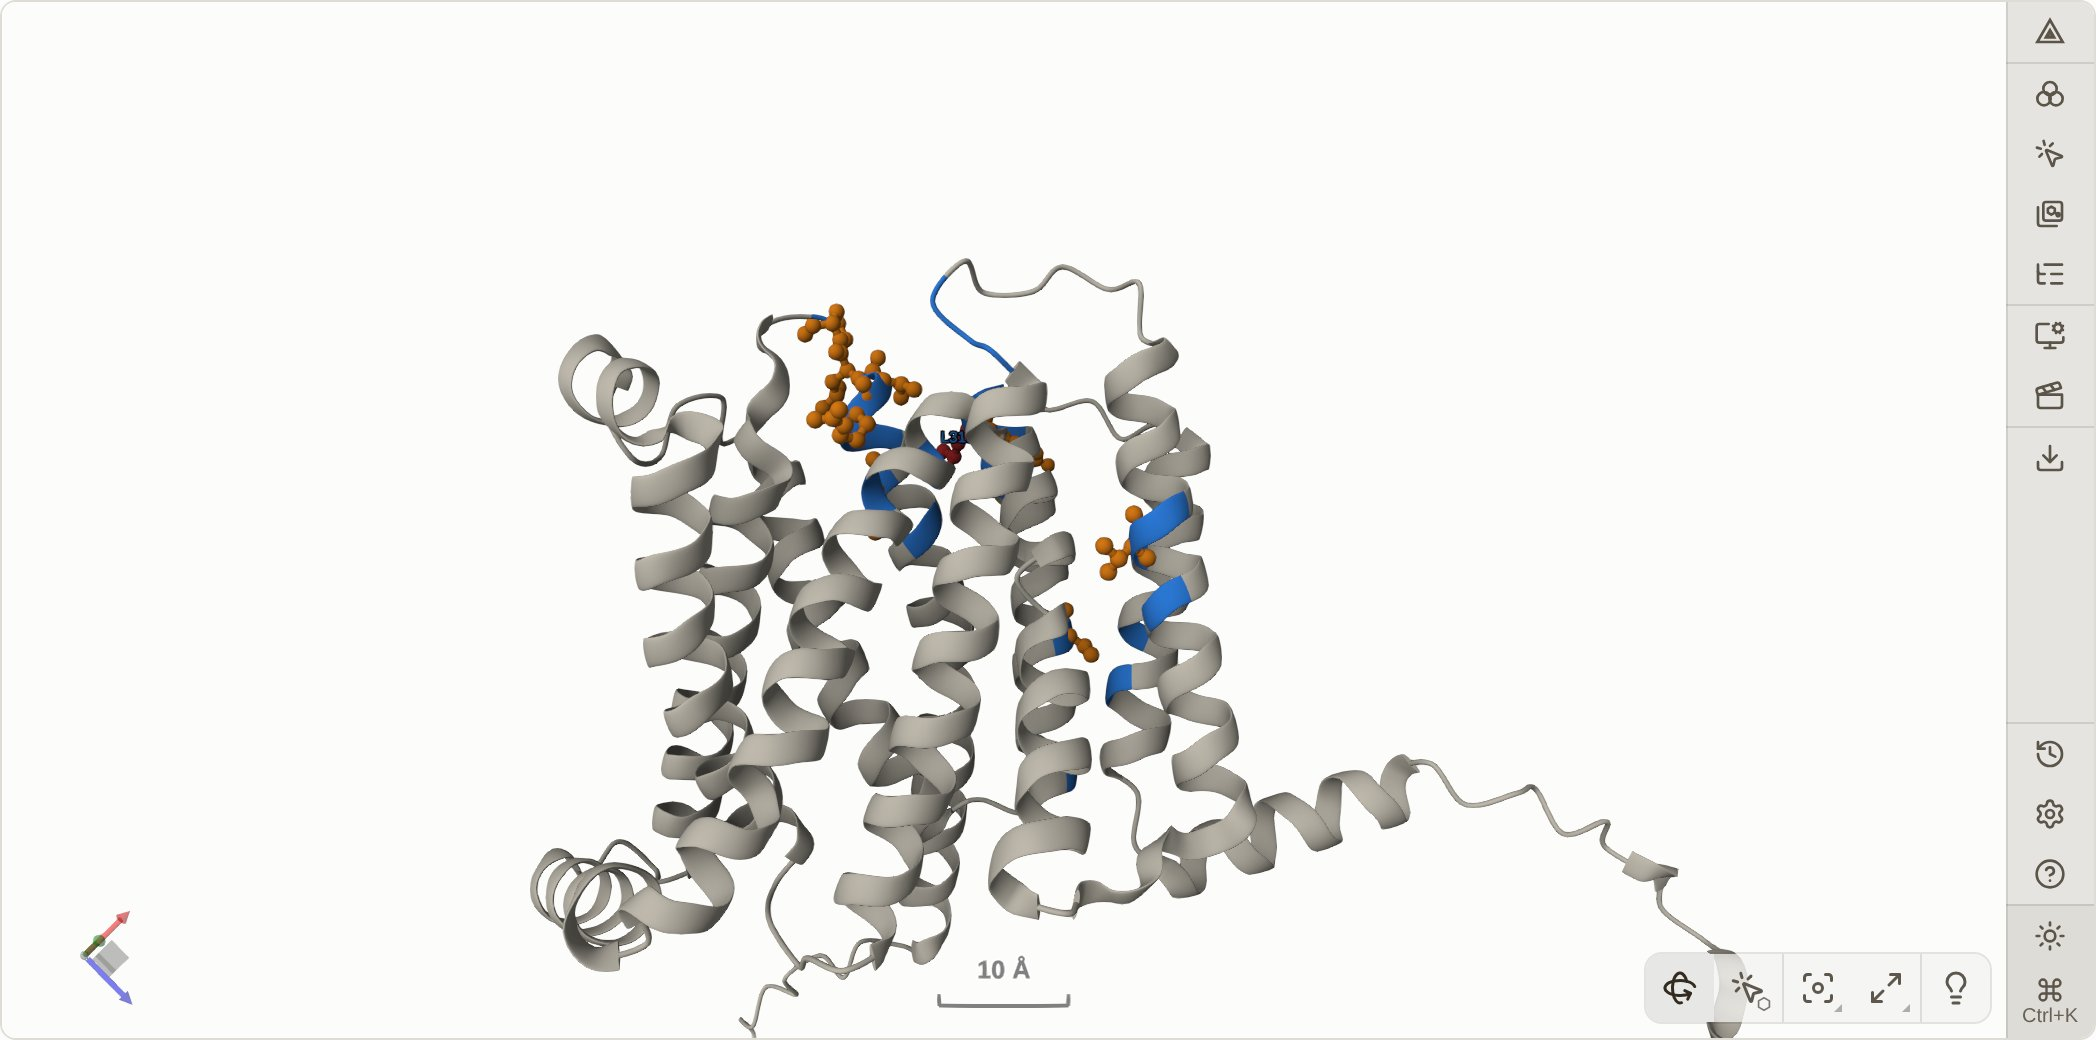
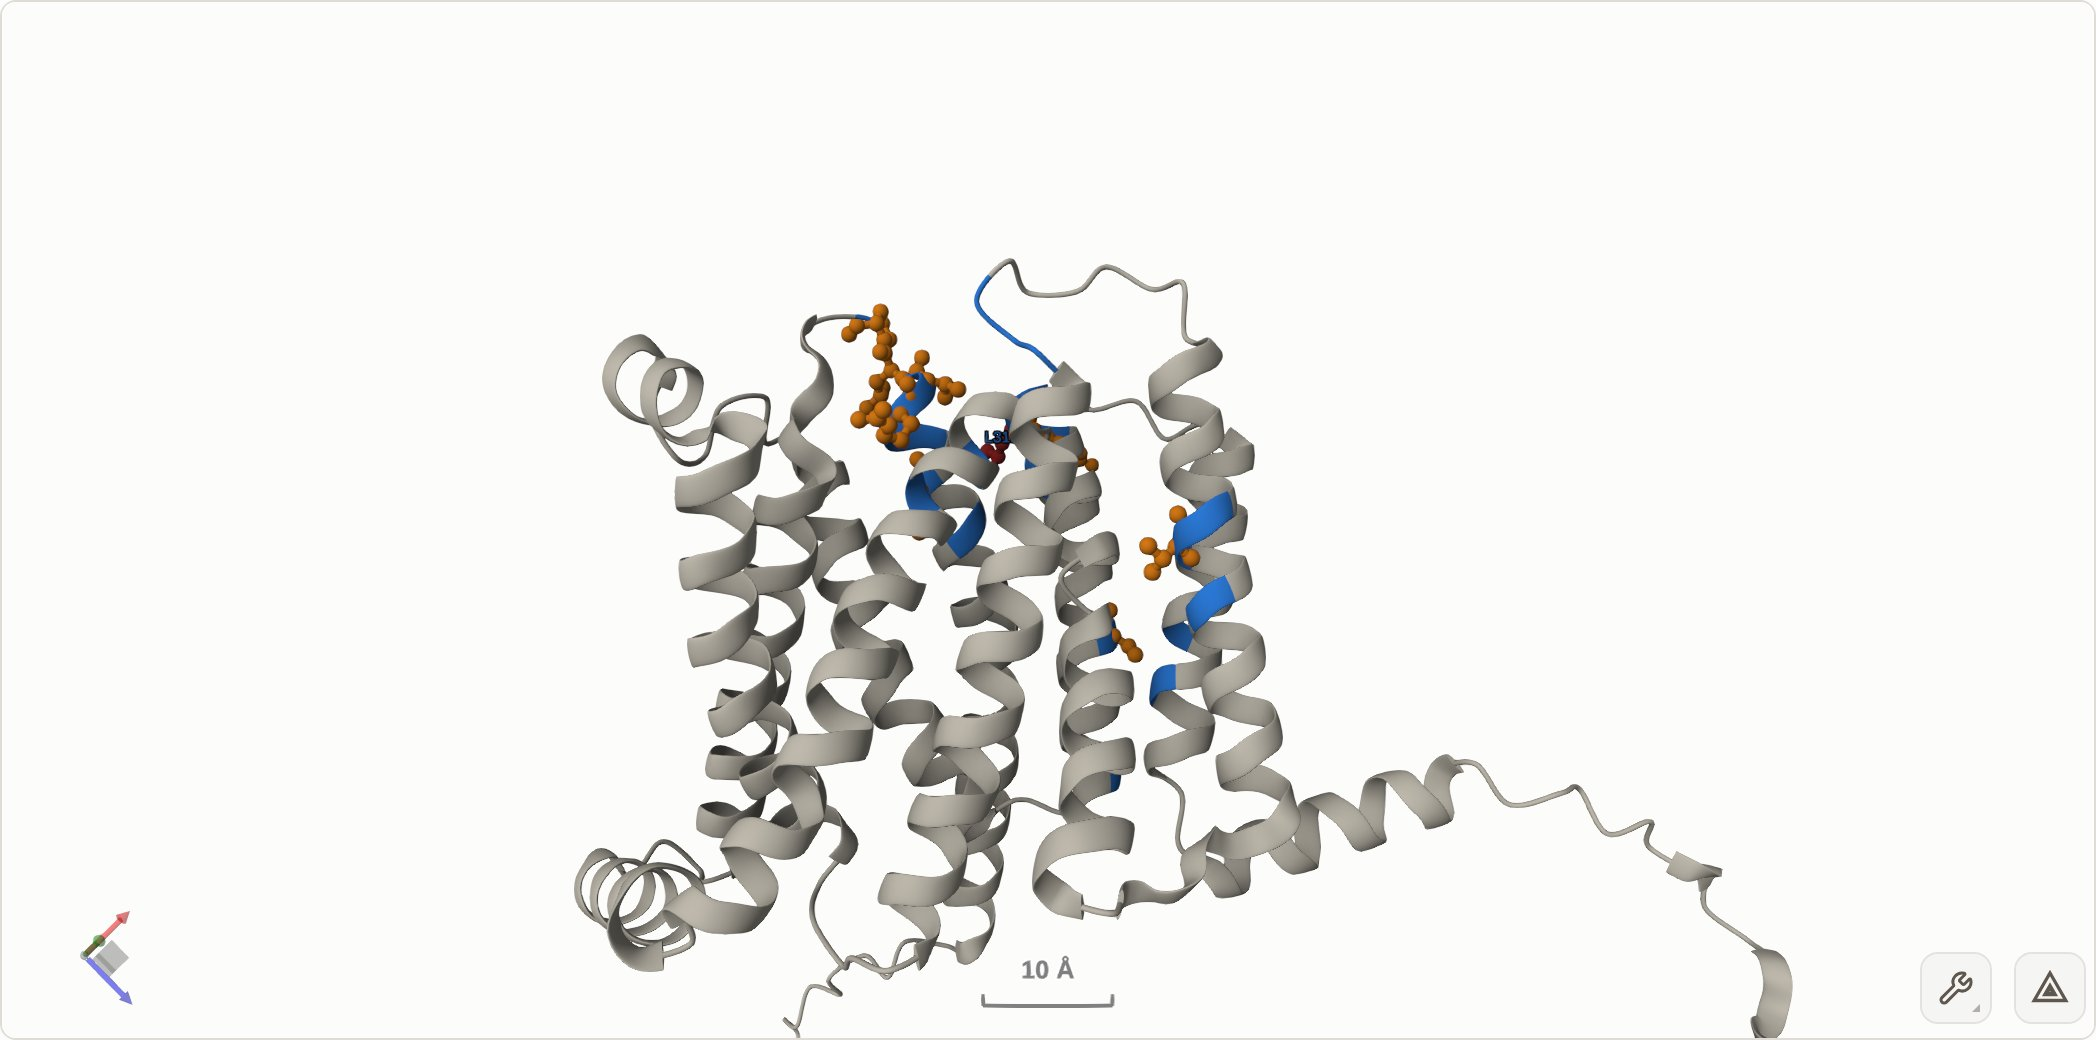
The GPCR and SLC35A2 posts take a still and link out, like the viral one
Both posts loaded a Mol* viewer to show one structure, and their heroes were
screenshots of that viewer. The viewer moves to a page of its own and the post
keeps the still, which links there: /gpcr/<pdb>/ for each of the 24 complexes,
/switch/ for SLC35A2's simulated switch residues.

The still is the hero file, since the hero already showed this structure and a
second capture of the same view would differ only in framing. The heroes are
now shot from the live pages, which is where the viewer lives.

A GPCR complex page also carries what the post's table only links out to: the
residue counts per chain, the ClinVar variants on the G protein side, and the
JBrowse session beside the genome.

Changed region(s): [[0.2481, 0.0, 1.0, 1.0]]

diff --git a/src/heroes.ts b/src/heroes.ts
@@ -46,14 +46,14 @@ await screenshots(
     },
     {
       name: 'project-9-gpcrs',
-      url: local => `${local}blog/2026-11-12-project-9-gpcrs/`,
+      url: local => `${local}gpcr/7JVQ/`,
       clip: '.complex-view .structure',
       height: 1600,
       wait: 25,
     },
     {
       name: 'slc35a2-switch',
-      url: local => `${local}blog/2026-11-12-slc35a2-switch/`,
+      url: local => `${local}switch/`,
       clip: '.complex-view .structure',
       height: 1600,
       wait: 25,
@@ -72,12 +72,12 @@ await screenshots(
 
 await screenshots(
   [
-    { name: 'isg15-plpro', pdb: '7rbs' },
-    { name: 'nemo-nsp5', pdb: '7t2u' },
-    { name: 'ywhaz-n', pdb: '7zit' },
-  ].map(({ name, pdb }) => ({
+    { name: 'isg15-plpro', path: 'viral/7rbs/' },
+    { name: 'nemo-nsp5', path: 'viral/7t2u/' },
+    { name: 'ywhaz-n', path: 'viral/7zit/' },
+  ].map(({ name, path }) => ({
     name,
-    url: (local: string) => `${local}viral/${pdb}/`,
+    url: (local: string) => `${local}${path}`,
     clip: '.complex-view .structure',
     height: 1600,
     wait: 25,

diff --git a/web/lib/project9.ts b/web/lib/project9.ts
@@ -1,5 +1,4 @@
 import { gene, gpcr } from './data.ts'
-import { complexView } from './gpcr.ts'
 import type { Agreement } from './types.ts'
 
 const OLFACTORY = /^OR\d/
@@ -109,7 +108,6 @@ export function project9() {
       ...FEATURED,
       receptor: featured?.receptorSide.gene,
       pathogenic: pathogenic(featured?.gProteins.find(g => g.gene === FEATURED.gAlpha)?.variants ?? []).length,
-      view: complexView(FEATURED.pdb, FEATURED.gAlpha),
     },
     olfactory: olfactory.map(p => p.gene),
     ipsaeRange: [Math.min(...ipsae), Math.max(...ipsae)].map(x => x.toFixed(2)),
